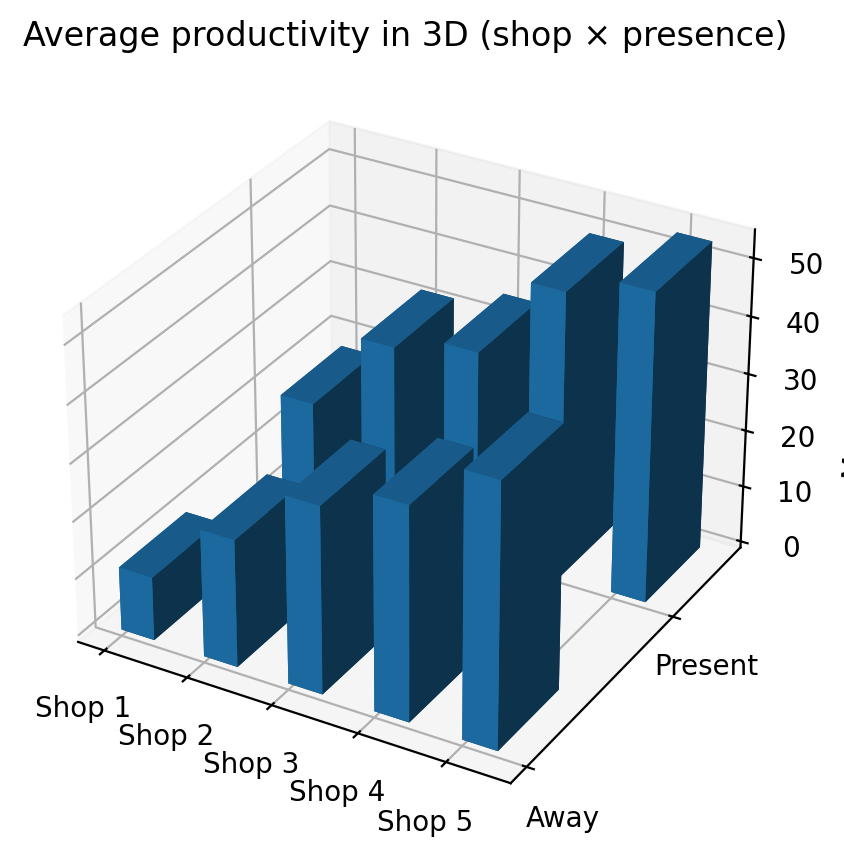
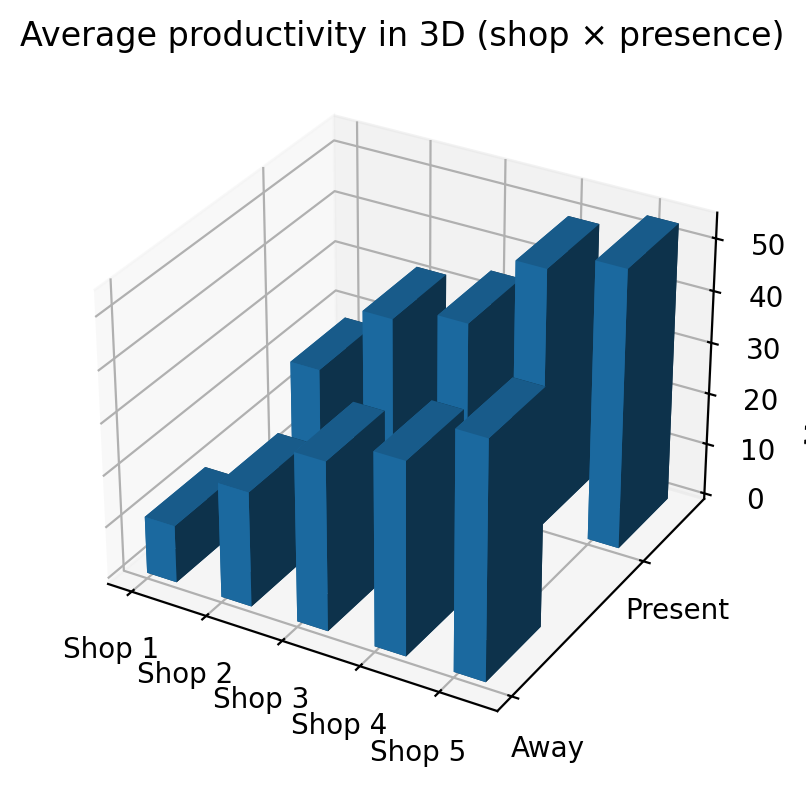
UPDATES TO SUMMARY

diff --git a/index.html b/index.html
@@ -101,7 +101,7 @@ ul.task-list li input[type="checkbox"] {
 <h1 data-number="1"><span class="header-section-number">1</span> Snapshot: What you should do</h1>
 <p>Patrick, here is the short version your data supports:</p>
 <ul>
-<li>Your presence <strong>helps some shops a lot more than others</strong>.</li>
+<li>Your presence <strong>helps some shops more than others</strong>.</li>
 <li>A small set of shops get a <strong>big, repeatable jump</strong> when you show up.</li>
 <li>Other shops tick along <strong>almost the same</strong> whether you are there or not.</li>
 </ul>
@@ -381,7 +381,7 @@ Table&nbsp;2: Summary statistics by shop and boss presence
 <div id="fig-all-points" class="quarto-float quarto-figure quarto-figure-center anchored">
 <figure class="quarto-float quarto-float-fig figure">
 <div aria-describedby="fig-all-points-caption-0ceaefa1-69ba-4598-a22c-09a6ac19f8ca">
-<img src="index_files/figure-html/fig-all-points-output-1.png" width="1087" height="388" class="figure-img">
+<img src="index_files/figure-html/fig-all-points-output-1.png" width="889" height="388" class="figure-img">
 </div>
 <figcaption class="quarto-float-caption-bottom quarto-float-caption quarto-float-fig" id="fig-all-points-caption-0ceaefa1-69ba-4598-a22c-09a6ac19f8ca">
 Figure&nbsp;1: All days in the dataset: one dot per day, colored by your presence
@@ -399,7 +399,7 @@ Figure&nbsp;1: All days in the dataset: one dot per day, colored by your presenc
 <div id="fig-box-strip" class="quarto-float quarto-figure quarto-figure-center anchored">
 <figure class="quarto-float quarto-float-fig figure">
 <div aria-describedby="fig-box-strip-caption-0ceaefa1-69ba-4598-a22c-09a6ac19f8ca">
-<img src="index_files/figure-html/fig-box-strip-output-1.png" width="1090" height="388" class="figure-img">
+<img src="index_files/figure-html/fig-box-strip-output-1.png" width="890" height="388" class="figure-img">
 </div>
 <figcaption class="quarto-float-caption-bottom quarto-float-caption quarto-float-fig" id="fig-box-strip-caption-0ceaefa1-69ba-4598-a22c-09a6ac19f8ca">
 Figure&nbsp;2: Daily productivity by shop and presence: boxplots with individual days
@@ -417,7 +417,7 @@ Figure&nbsp;2: Daily productivity by shop and presence: boxplots with individual
 <div id="fig-3d" class="quarto-float quarto-figure quarto-figure-center anchored">
 <figure class="quarto-float quarto-float-fig figure">
 <div aria-describedby="fig-3d-caption-0ceaefa1-69ba-4598-a22c-09a6ac19f8ca">
-<img src="index_files/figure-html/fig-3d-output-1.png" width="422" height="428" class="figure-img">
+<img src="index_files/figure-html/fig-3d-output-1.png" width="403" height="393" class="figure-img">
 </div>
 <figcaption class="quarto-float-caption-bottom quarto-float-caption quarto-float-fig" id="fig-3d-caption-0ceaefa1-69ba-4598-a22c-09a6ac19f8ca">
 Figure&nbsp;3: 3D view: average cars/day by shop and boss presence
@@ -514,7 +514,7 @@ Table&nbsp;3: Shops ranked by extra cars/day when you are present
 <img src="index_files/figure-html/fig-boost-bars-output-1.png" width="710" height="408" class="figure-img">
 </div>
 <figcaption class="quarto-float-caption-bottom quarto-float-caption quarto-float-fig" id="fig-boost-bars-caption-0ceaefa1-69ba-4598-a22c-09a6ac19f8ca">
-Figure&nbsp;4: Extra cars/day when you are present, with uncertainty bars
+Figure&nbsp;4: Estimated extra cars/day when you are present, with uncertainty bars
 </figcaption>
 </figure>
 </div>
@@ -549,37 +549,37 @@ Table&nbsp;4: Bootstrap confidence intervals for boss boost by shop
 <tr class="odd">
 <th data-quarto-table-cell-role="th">0</th>
 <td>1</td>
-<td>6.95</td>
-<td>4.83</td>
-<td>9.02</td>
+<td>6.93</td>
+<td>4.85</td>
+<td>9.00</td>
 </tr>
 <tr class="even">
 <th data-quarto-table-cell-role="th">1</th>
 <td>2</td>
-<td>10.07</td>
-<td>7.69</td>
-<td>12.38</td>
+<td>10.09</td>
+<td>7.60</td>
+<td>12.47</td>
 </tr>
 <tr class="odd">
 <th data-quarto-table-cell-role="th">2</th>
 <td>3</td>
-<td>2.96</td>
-<td>-0.01</td>
-<td>5.92</td>
+<td>2.93</td>
+<td>-0.15</td>
+<td>5.74</td>
 </tr>
 <tr class="even">
 <th data-quarto-table-cell-role="th">3</th>
 <td>4</td>
-<td>12.83</td>
-<td>5.36</td>
-<td>20.78</td>
+<td>12.66</td>
+<td>5.07</td>
+<td>21.00</td>
 </tr>
 <tr class="odd">
 <th data-quarto-table-cell-role="th">4</th>
 <td>5</td>
-<td>8.18</td>
-<td>4.79</td>
-<td>11.60</td>
+<td>8.27</td>
+<td>4.80</td>
+<td>11.70</td>
 </tr>
 </tbody>
 </table>
@@ -594,7 +594,9 @@ Table&nbsp;4: Bootstrap confidence intervals for boss boost by shop
 <ul>
 <li>If a shop’s entire interval is <strong>above 0</strong>, you almost certainly help there.</li>
 <li>If an interval overlaps 0, the signal is weaker; that shop is lower priority until more data accumulate.</li>
+<li>These intervals are based on only <strong>250 days of data</strong>, so the exact numbers may shift as you collect more history.</li>
 </ul>
+<p>We are assuming that the next few months will look roughly like these 250 days and that the profit per car stays about the same. If those assumptions change (for example, new staff, price changes, or a big shift in demand), the boss boosts and profit projections will also change.</p>
 </section>
 <section id="what-different-schedules-mean-in-money" class="level1" data-number="5">
 <h1 data-number="5"><span class="header-section-number">5</span> What different schedules mean in money</h1>
